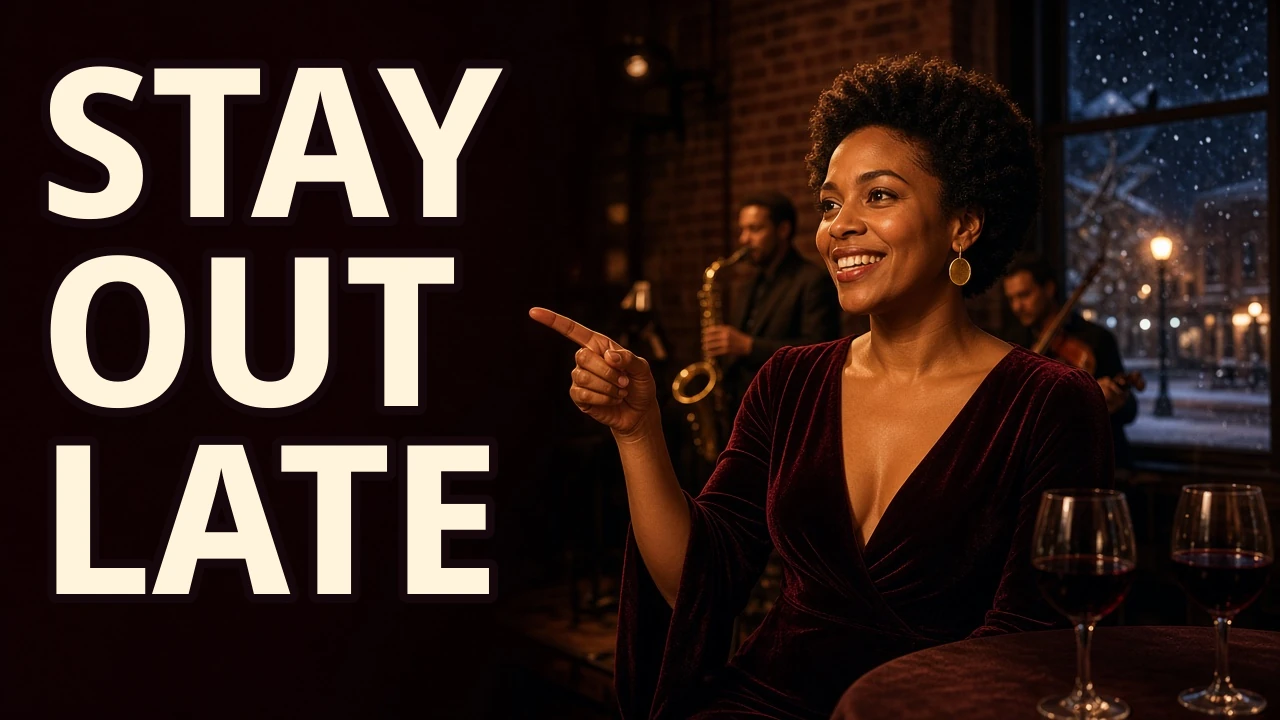
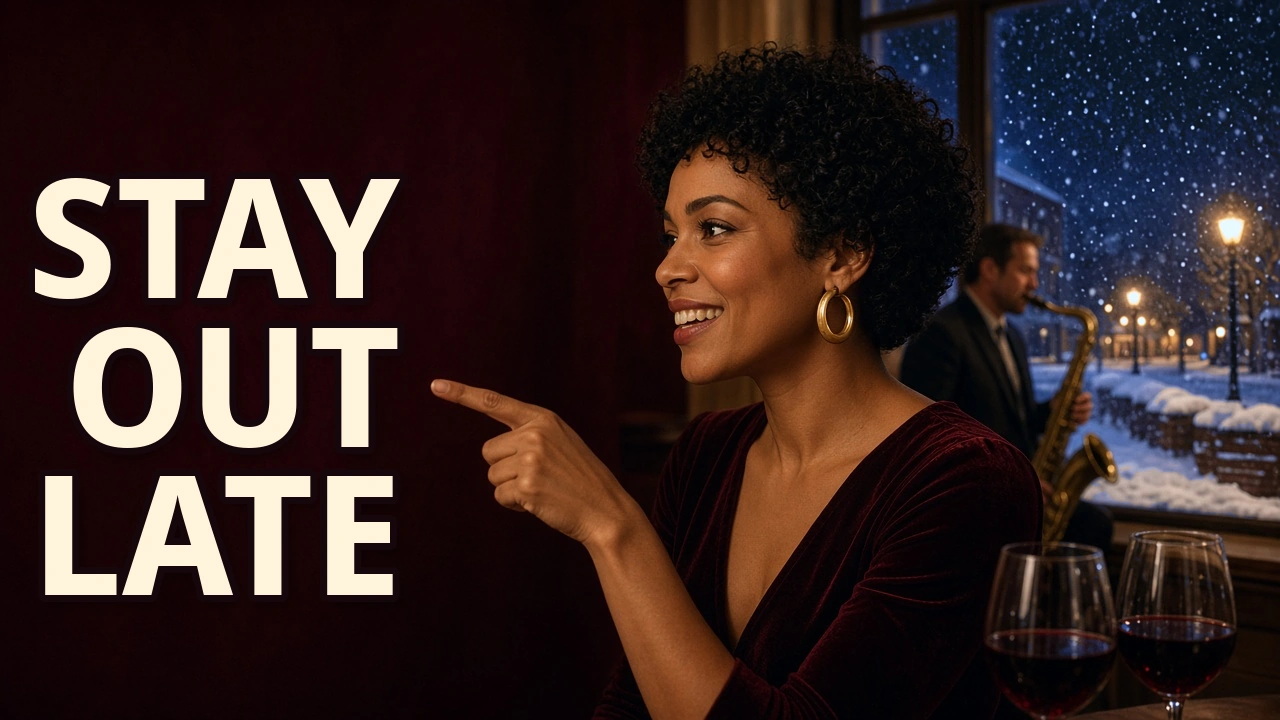
Revise the wine-and-jazz thumbnail and add the type script
Regenerate the scene so her eyes sit on the words, place OUT just short of her fingertip, and cool the snowy window. make_thumbnail.py sets the hook words for the next events.

diff --git a/src/assets/events/thumbnail-tests/wine-and-jazz-series/make_thumbnail.py b/src/assets/events/thumbnail-tests/wine-and-jazz-series/make_thumbnail.py
@@ -1,0 +1,330 @@
+#!/usr/bin/env python3
+"""Draw hook words onto a featured-image scene.
+
+The scene is generated with no letters. This script sets the type and writes
+a 1280x720 PNG source plus a WebP under 200 KB.
+
+Font
+    Noto Sans Display Bold (NotoSansDisplay-Bold.ttf)
+    Copyright 2010, 2012-2020 Google Inc. and Google LLC.
+    Licensed under the SIL Open Font License, Version 1.1
+    (https://scripts.sil.org/OFL).
+    A thumbnail made with the font is a document, not Font Software, so the
+    OFL does not restrict the image. Pass --font to use another file.
+
+Usage
+    python make_thumbnail.py SCENE --words STAY OUT LATE --side left --out DIR
+
+DIR receives thumbnail.webp and thumbnail-source.png.
+"""
+
+from __future__ import annotations
+
+import argparse
+import sys
+from pathlib import Path
+
+from PIL import Image, ImageDraw, ImageFilter, ImageFont
+
+FRAME = (1280, 720)
+WEB_BUDGET = 200 * 1024
+FILL = "#FFF4DC"
+STROKE = "#16070B"
+# Phone width the brief checks. Ink shorter than this at that width is hard to read.
+PHONE_WIDTH = 320
+MIN_PHONE_INK = 28
+
+FONT_CANDIDATES = (
+    Path("/usr/share/fonts/truetype/noto/NotoSansDisplay-Bold.ttf"),
+    Path("/usr/share/fonts/opentype/noto/NotoSansDisplay-Bold.ttf"),
+    Path.home() / ".local/share/fonts/NotoSansDisplay-Bold.ttf",
+)
+
+
+def fail(message: str) -> None:
+    print(f"error: {message}", file=sys.stderr)
+    raise SystemExit(1)
+
+
+def find_font(explicit: str | None) -> Path:
+    if explicit:
+        path = Path(explicit)
+        if not path.is_file():
+            fail(f"font not found: {path}")
+        return path
+    for path in FONT_CANDIDATES:
+        if path.is_file():
+            return path
+    fail(
+        "Noto Sans Display Bold was not found. Install the Noto fonts "
+        "(SIL Open Font License 1.1) or pass --font."
+    )
+    raise AssertionError
+
+
+def to_frame(im: Image.Image) -> Image.Image:
+    """Center-crop to 16:9 and resize to 1280x720."""
+    im = im.convert("RGB")
+    width, height = im.size
+    target = FRAME[0] / FRAME[1]
+    ratio = width / height
+    if abs(ratio - target) > 0.01:
+        if ratio > target:
+            new_w = int(round(height * target))
+            left = (width - new_w) // 2
+            im = im.crop((left, 0, left + new_w, height))
+        else:
+            new_h = int(round(width / target))
+            top = (height - new_h) // 2
+            im = im.crop((0, top, width, top + new_h))
+    if im.size != FRAME:
+        im = im.resize(FRAME, Image.Resampling.LANCZOS)
+    return im
+
+
+def subject_mask(im: Image.Image, threshold: int) -> Image.Image:
+    return im.convert("L").point(lambda p: 255 if p > threshold else 0)
+
+
+def edge_x(mask: Image.Image, y: int, side: str, run: int = 5) -> int | None:
+    """First subject pixel on this row, ignoring specks shorter than `run`."""
+    width, _height = mask.size
+    px = mask.load()
+    if side == "left":
+        x = 0
+        while x < width:
+            if px[x, y] > 0 and all(px[min(width - 1, x + i), y] > 0 for i in range(run)):
+                return x
+            x += 1
+        return None
+    x = width - 1
+    while x >= 0:
+        if px[x, y] > 0 and all(px[max(0, x - i), y] > 0 for i in range(run)):
+            return x
+        x -= 1
+    return None
+
+
+def protrusion(mask: Image.Image, side: str) -> tuple[int, int]:
+    """The point where the subject sticks furthest into the type side.
+
+    On these thumbnails that point is the fingertip, or the nose if nobody
+    is pointing. Returns (x, y).
+    """
+    _width, height = mask.size
+    y0, y1 = int(height * 0.18), int(height * 0.82)
+    rows: list[tuple[int, int]] = []
+    for y in range(y0, y1):
+        x = edge_x(mask, y, side)
+        if x is not None:
+            rows.append((x, y))
+    if not rows:
+        fail("no subject found. Lower --threshold or check the scene.")
+    if side == "left":
+        best = min(x for x, _y in rows)
+        near = [y for x, y in rows if x <= best + 8]
+    else:
+        best = max(x for x, _y in rows)
+        near = [y for x, y in rows if x >= best - 8]
+    near.sort()
+    return best, near[len(near) // 2]
+
+
+def word_box(font: ImageFont.FreeTypeFont, word: str) -> tuple[int, int, tuple[int, int, int, int]]:
+    bbox = font.getbbox(word)
+    return bbox[2] - bbox[0], bbox[3] - bbox[1], bbox
+
+
+def fit_stack(
+    words: list[str],
+    font_path: Path,
+    side: str,
+    tip: tuple[int, int],
+    point_at: str,
+    air: int,
+    margin: int,
+) -> dict:
+    """Largest type that keeps `point_at` just short of the fingertip."""
+    width, height = FRAME
+    tip_x, tip_y = tip
+    index = words.index(point_at)
+    best: dict | None = None
+    low, high = 60, 300
+    while low <= high:
+        size = (low + high) // 2
+        font = ImageFont.truetype(font_path, size)
+        metrics = [word_box(font, word) for word in words]
+        max_w = max(item[0] for item in metrics)
+        max_h = max(item[1] for item in metrics)
+        stroke = max(6, round(size / 23))
+        gap = max(18, round(size / 8))
+        step = max_h + stroke + gap
+        if side == "left":
+            align = tip_x - air - stroke
+            far = align - max_w
+            fits_x = far >= margin
+        else:
+            align = tip_x + air + stroke
+            far = align + max_w
+            fits_x = far <= width - margin
+        point_h = metrics[index][1]
+        top = tip_y - point_h / 2 - index * step
+        bottom = top + step * (len(words) - 1) + max_h
+        if top < margin:
+            shift = margin - top
+            top += shift
+            bottom += shift
+        if bottom > height - margin:
+            shift = bottom - (height - margin)
+            top -= shift
+            bottom -= shift
+        point_top = top + index * step
+        point_bot = point_top + point_h
+        covers_tip = point_top + 6 <= tip_y <= point_bot - 6
+        fits_y = top >= margin and bottom <= height - margin
+        if fits_x and fits_y and covers_tip:
+            best = {
+                "size": size,
+                "font": font,
+                "metrics": metrics,
+                "stroke": stroke,
+                "gap": gap,
+                "step": step,
+                "top": top,
+                "align": align,
+                "max_h": max_h,
+            }
+            low = size + 1
+        else:
+            high = size - 1
+    if best is None:
+        fail("the words do not fit beside the subject. Use fewer or shorter words.")
+    return best
+
+
+def draw_words(scene: Image.Image, words: list[str], side: str, layout: dict) -> Image.Image:
+    base = scene.convert("RGBA")
+    shadow = Image.new("RGBA", FRAME, (0, 0, 0, 0))
+    shadow_draw = ImageDraw.Draw(shadow)
+    font = layout["font"]
+    for i, word in enumerate(words):
+        ink_w, _ink_h, bbox = layout["metrics"][i]
+        ink_top = layout["top"] + i * layout["step"]
+        ink_left = layout["align"] - ink_w if side == "left" else layout["align"]
+        origin = (ink_left - bbox[0] + 5, ink_top - bbox[1] + 7)
+        shadow_draw.text(origin, word, font=font, fill=(0, 0, 0, 170))
+    shadow = shadow.filter(ImageFilter.GaussianBlur(7))
+    comp = Image.alpha_composite(base, shadow)
+    draw = ImageDraw.Draw(comp)
+    for i, word in enumerate(words):
+        ink_w, _ink_h, bbox = layout["metrics"][i]
+        ink_top = layout["top"] + i * layout["step"]
+        ink_left = layout["align"] - ink_w if side == "left" else layout["align"]
+        origin = (ink_left - bbox[0], ink_top - bbox[1])
+        draw.text(
+            origin,
+            word,
+            font=font,
+            fill=FILL,
+            stroke_width=layout["stroke"],
+            stroke_fill=STROKE,
+        )
+    return comp.convert("RGB")
+
+
+def overlap_count(text: Image.Image, scene: Image.Image, mask: Image.Image) -> int:
+    text_px = text.load()
+    scene_px = scene.load()
+    mask_px = mask.load()
+    width, height = FRAME
+    count = 0
+    for y in range(0, height, 2):
+        for x in range(0, width, 2):
+            if mask_px[x, y] == 0:
+                continue
+            tr, tg, tb = text_px[x, y]
+            sr, sg, sb = scene_px[x, y]
+            if abs(tr - sr) + abs(tg - sg) + abs(tb - sb) > 90:
+                count += 1
+    return count
+
+
+def save_webp(im: Image.Image, path: Path) -> tuple[int, int]:
+    """Write the highest-quality WebP that stays under 200 KB. Returns quality, bytes."""
+    for quality in (95, 92, 90, 86, 82, 78, 74, 70, 66, 60):
+        im.save(path, "WEBP", quality=quality, method=6)
+        size = path.stat().st_size
+        if size <= WEB_BUDGET:
+            return quality, size
+    fail(f"WebP is still over 200 KB at quality 60 ({path.stat().st_size} bytes).")
+    raise AssertionError
+
+
+def parse_args(argv: list[str]) -> argparse.Namespace:
+    parser = argparse.ArgumentParser(description="Set hook words on a thumbnail scene.")
+    parser.add_argument("scene", type=Path, help="Scene image with no letters")
+    parser.add_argument("--words", nargs="+", required=True, help="2 to 5 hook words")
+    parser.add_argument("--side", choices=("left", "right"), required=True, help="Side the words sit on")
+    parser.add_argument("--out", type=Path, required=True, help="Directory for the PNG and WebP")
+    parser.add_argument("--point-at", default=None, help="Word the fingertip should meet (default: the middle word)")
+    parser.add_argument("--air", type=int, default=22, help="Pixels of space between the fingertip and that word")
+    parser.add_argument("--margin", type=int, default=28, help="Minimum space between the type and the frame")
+    parser.add_argument("--threshold", type=int, default=32, help="Luminance above which a pixel counts as the subject")
+    parser.add_argument("--font", default=None, help="Bold display font file. Default: Noto Sans Display Bold")
+    parser.add_argument("--tip", nargs=2, type=int, metavar=("X", "Y"), help="Override the detected fingertip")
+    return parser.parse_args(argv)
+
+
+def main(argv: list[str]) -> None:
+    args = parse_args(argv)
+    words = [word.strip().upper() for word in args.words]
+    if not 2 <= len(words) <= 5:
+        fail("use 2 to 5 hook words.")
+    for word in words:
+        if not word.replace("-", "").replace("'", "").isalpha():
+            fail(f"not a plain word: {word}")
+    point_at = (args.point_at or words[len(words) // 2]).strip().upper()
+    if point_at not in words:
+        fail(f"--point-at {point_at} is not one of the hook words.")
+    if not args.scene.is_file():
+        fail(f"scene not found: {args.scene}")
+
+    font_path = find_font(args.font)
+    scene = to_frame(Image.open(args.scene))
+    mask = subject_mask(scene, args.threshold)
+    tip = tuple(args.tip) if args.tip else protrusion(mask, args.side)
+    layout = fit_stack(words, font_path, args.side, tip, point_at, args.air, args.margin)
+    final = draw_words(scene, words, args.side, layout)
+    covered = overlap_count(final, scene, mask)
+    if covered > 40:
+        print(
+            f"warning: type covers the subject ({covered} sampled pixels). "
+            "Raise --air or pass --tip.",
+            file=sys.stderr,
+        )
+    phone_ink = layout["max_h"] * PHONE_WIDTH / FRAME[0]
+    if phone_ink < MIN_PHONE_INK:
+        print(
+            f"warning: type is {phone_ink:.0f}px tall at {PHONE_WIDTH}px wide. "
+            f"Aim for at least {MIN_PHONE_INK}px.",
+            file=sys.stderr,
+        )
+
+    args.out.mkdir(parents=True, exist_ok=True)
+    png_path = args.out / "thumbnail-source.png"
+    webp_path = args.out / "thumbnail.webp"
+    final.save(png_path, "PNG", compress_level=3)
+    quality, webp_bytes = save_webp(final, webp_path)
+    if args.font is None:
+        print(f"font: {font_path} (Noto Sans Display Bold, SIL OFL 1.1)")
+    else:
+        print(f"font: {font_path}")
+    print(f"words: {' / '.join(words)}")
+    print(f"side: {args.side}  point-at: {point_at}  fingertip: {tip[0]},{tip[1]}")
+    print(f"size: {layout['size']}px  stroke: {layout['stroke']}  air: {args.air}px")
+    print(f"png: {png_path} ({png_path.stat().st_size} bytes)")
+    print(f"webp: {webp_path} (quality {quality}, {webp_bytes} bytes)")
+
+
+if __name__ == "__main__":
+    main(sys.argv[1:])

diff --git a/src/assets/events/thumbnail-tests/wine-and-jazz-series/NOTES.md b/src/assets/events/thumbnail-tests/wine-and-jazz-series/NOTES.md
@@ -6,17 +6,43 @@ Hook words: **STAY OUT LATE**
 
 The event title already says wine and jazz. These three words add the part the title does not: an adults' night out you do not cut short. Each word is short, spelled in ordinary English, and set large enough to read when the card is about 320px wide. No date, price, venue, or presenter name is on the image.
 
-## How it was made
+## How this one was made
 
-1. The scene was generated with Cursor's image generation tool at 16:9. The tool returned a 1280×720 JPEG and did not name the underlying model. Prompt:
+1. The scene was generated with Cursor's image generation tool at 16:9, with no letters in the prompt. The tool returned a 1280×720 JPEG and did not name the underlying model. She is in profile, eyes aimed left at the empty type area, smiling, and pointing left. A saxophonist and a snowy downtown window stay visible behind her. Prompt:
 
-   > Photorealistic cinematic 16:9 photograph, absolutely no text, no letters, no numbers, no logos, no watermarks, no signs, no marquee. A fictional woman in her early 30s with warm medium-brown skin and short natural curls, wearing a deep burgundy velvet evening dress and a single plain gold hoop, fills the right third of the frame. She looks left toward the empty dark half of the image, eyes aimed left, delighted smile, and her right hand is raised pointing left into the empty space. Her face is large, sharp, and well lit by a warm theatrical spotlight. The left half of the frame is mostly deep wine-red shadow and dark negative space, uncluttered, so type can be added later. Softly blurred behind her: a saxophone and a small jazz combo on a small historic theatre stage, amber stage lights, two stemmed glasses of red wine on a nearby table catching gold light, a brick wall, and a tall window showing a snowy December night on a modest Midwest downtown street with warm streetlamps, bare trees, and light snow, no readable signs. Shallow depth of field, high contrast, rich burgundy, gold, and warm amber against cold blue snow outside. December evening in Springfield, Missouri. One focal point: her face. No celebrity likeness.
+   > Photorealistic cinematic 16:9 photograph, absolutely no text, no letters, no numbers, no logos, no watermarks, no signs, no marquee. A fictional woman in her early 30s with warm medium-brown skin and short natural curls, in a deep burgundy velvet evening dress and one plain gold hoop earring. She is on the right half of the frame in a medium close-up: her head, from the top of her hair to her chin, occupies about 28 percent of the picture height, large and sharp. CRITICAL EYE DIRECTION: her head is turned toward the left side of the frame in a strong three-quarter view, and both eyes look hard left, irises shifted fully toward her left, staring at an empty spot in the left third of the image. She is delighted, a real smile. She is not looking at the camera, not looking at the viewer, no eye contact with the lens. Her right arm is raised and her index finger points left, fingertip stopping in the open dark space at the vertical middle of her face, as if touching a word that will be added later. The left third of the frame is deep wine-red shadow and empty negative space for later typography, uncluttered. Behind her, still visible: a saxophonist in a dark suit playing, softly out of focus, and a tall window filling the upper right with a cold December night in a modest Midwest downtown: heavy falling snow, snow piled on a brick ledge and sidewalk, blue-black sky, cold blue window light, warm streetlamps, bare trees, no readable signs. Two glasses of red wine at the lower right. Interior stays warm burgundy, gold, and amber, contrasted with the cold blue snow outside. Shallow depth of field. December evening in Springfield, Missouri. No celebrity likeness. No text anywhere.
 
-2. Letters were not left to the image model. They were drawn in Python with Pillow, using Noto Sans Display Bold at 208px. The three words are left-aligned in the dark left third: fill `#FFF4DC`, 9px stroke `#16070B`, plus a soft black shadow. Her eyes and pointing hand aim at that stack, and the glyphs do not cover her hand.
-3. `thumbnail-source.png` is the lossless composite (1280×720). `thumbnail.webp` is the same image encoded WebP at quality 90 (82,550 bytes, under the 200 KB cap).
+2. A light cool grade was applied only to the window half, and only to pixels that are not skin or velvet, so the snow and night read bluer without dulling the burgundy dress.
+3. Letters were drawn by `make_thumbnail.py` (Pillow, Noto Sans Display Bold, SIL Open Font License 1.1). The script finds the fingertip and sets the stack so that word sits just short of it.
 
-## Another try
+   ```
+   python3 make_thumbnail.py scene.png --words STAY OUT LATE --side left --point-at OUT --out .
+   ```
 
-- Slide the stack slightly right so her fingertip meets the word OUT instead of the gap beside it.
-- If the face feels small on a phone card, crop tighter on her expression and keep the snowy window.
-- A little more cold blue on the window edge would make December read even faster.
+   This run: fingertip at 430,388, type 167px, 7px stroke, 22px of air, fill `#FFF4DC`. `thumbnail-source.png` is the lossless composite. `thumbnail.webp` is quality 95, 143,170 bytes.
+
+## How to make the next one
+
+Generate the scene with no letters, then set the type with this folder's `make_thumbnail.py`. Do not let the image model draw words.
+
+### Scene prompt
+
+Fill the blanks. Keep the "no text" line and the eye-direction line every time.
+
+> Photorealistic cinematic 16:9 photograph, absolutely no text, no letters, no numbers, no logos, no watermarks, no signs. [EVENT: what is happening in one sentence]. Mood: [MOOD]. [PEOPLE: who, how many, what they are doing, fictional, no celebrity likeness]. They are on the [left/right] half. Their eyes look hard [left/right], irises shifted toward the empty half of the frame, at the spot where the words will go. They are not looking at the camera. Delighted expression that fits the event. One person points into the empty half. Leave that half as dark, uncluttered space for type. Season cues: [SEASON CUES, for example December in Springfield: snow on the sidewalk, cold blue night, warm interior]. One focal point. No readable signs.
+
+### Hook words
+
+- Use 2 to 5 words. They add a hook the event title does not already say.
+- Spell them correctly. No dates, prices, venue names, logos, or small print.
+- Pass them to the script with `--words`. `--side` is the empty side. `--point-at` is the word the finger should meet (the middle word if you omit it).
+
+### Checks before saving
+
+- Spelling: read every word off the PNG.
+- At 320px wide, the words are still readable and the season cue is still visible.
+- The eyes are on the words, not on the camera. The fingertip stops just short of `--point-at`, with a little air, not in the gap between lines.
+- No real identifiable people, lookalikes, logos, trademarks, or a real venue sign.
+- WebP is 1280×720 and under 200 KB. The PNG source is beside it.
+
+Font: Noto Sans Display Bold, copyright 2010, 2012–2020 Google Inc. and Google LLC, SIL Open Font License 1.1 (https://scripts.sil.org/OFL). The rendered thumbnail is not restricted by that license. Pass `--font` if the file is not on the machine.
